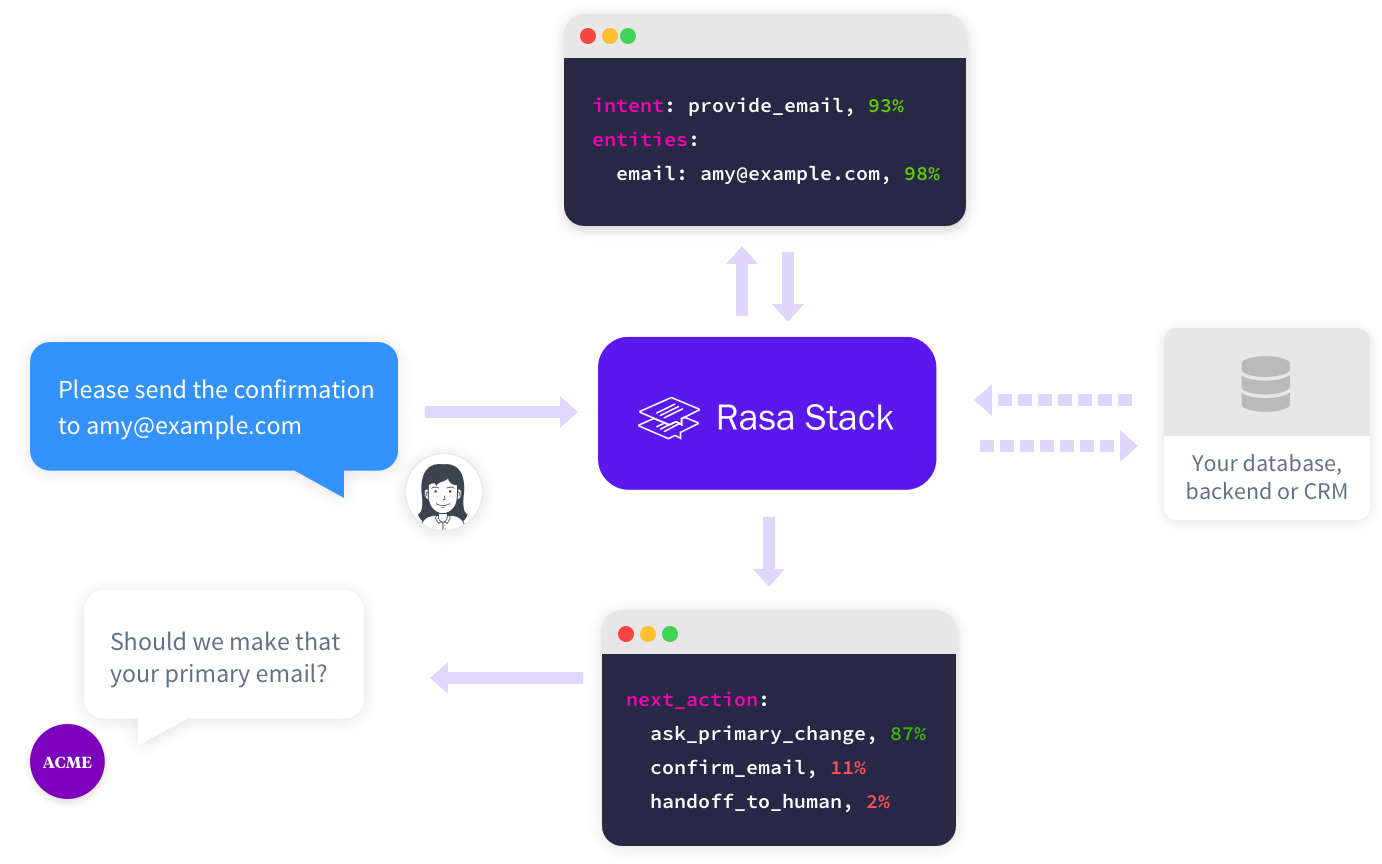
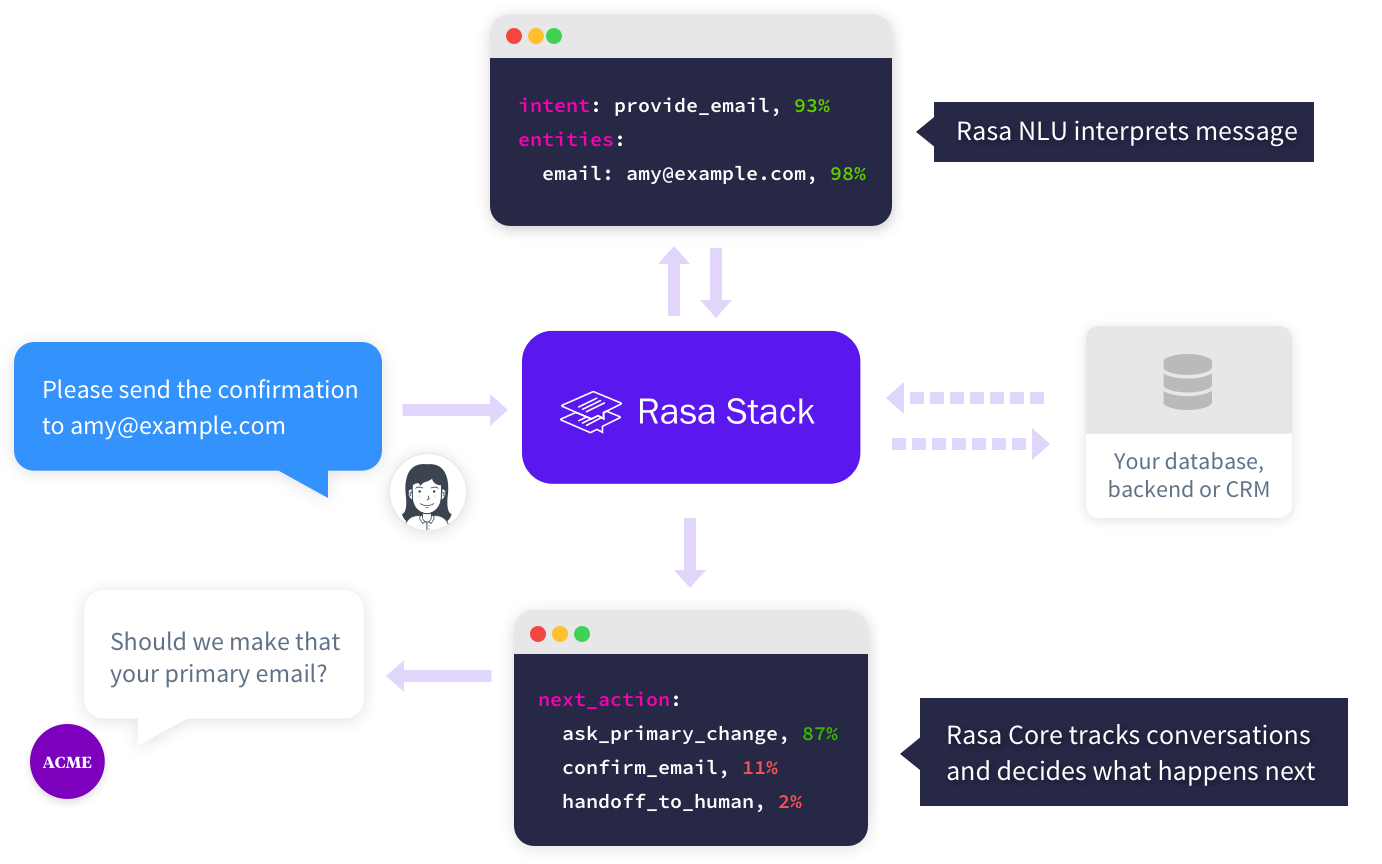
update lp image

diff --git a/docs/tour.rst b/docs/tour.rst
@@ -4,11 +4,6 @@ What You Can Do with Rasa
 
 Rasa NLU and Rasa Core together form the `Rasa Stack <https://rasa.com/products/rasa-stack>`_.
 
-.. image:: /_static/images/rasa_stack_explained.png
-   :height: 400px
-   :scale: 100 %
-   :alt: rasa stack
-   :align: center
 
 
 .. card::

diff --git a/docs/index.rst b/docs/index.rst
@@ -3,6 +3,10 @@ Welcome to the Rasa Documentation
 =================================
 
 
+.. image:: /_static/images/rasa_stack_explained.png
+   :width: 1382
+   :alt: rasa stack
+
 
 .. toctree::
    :maxdepth: 1
